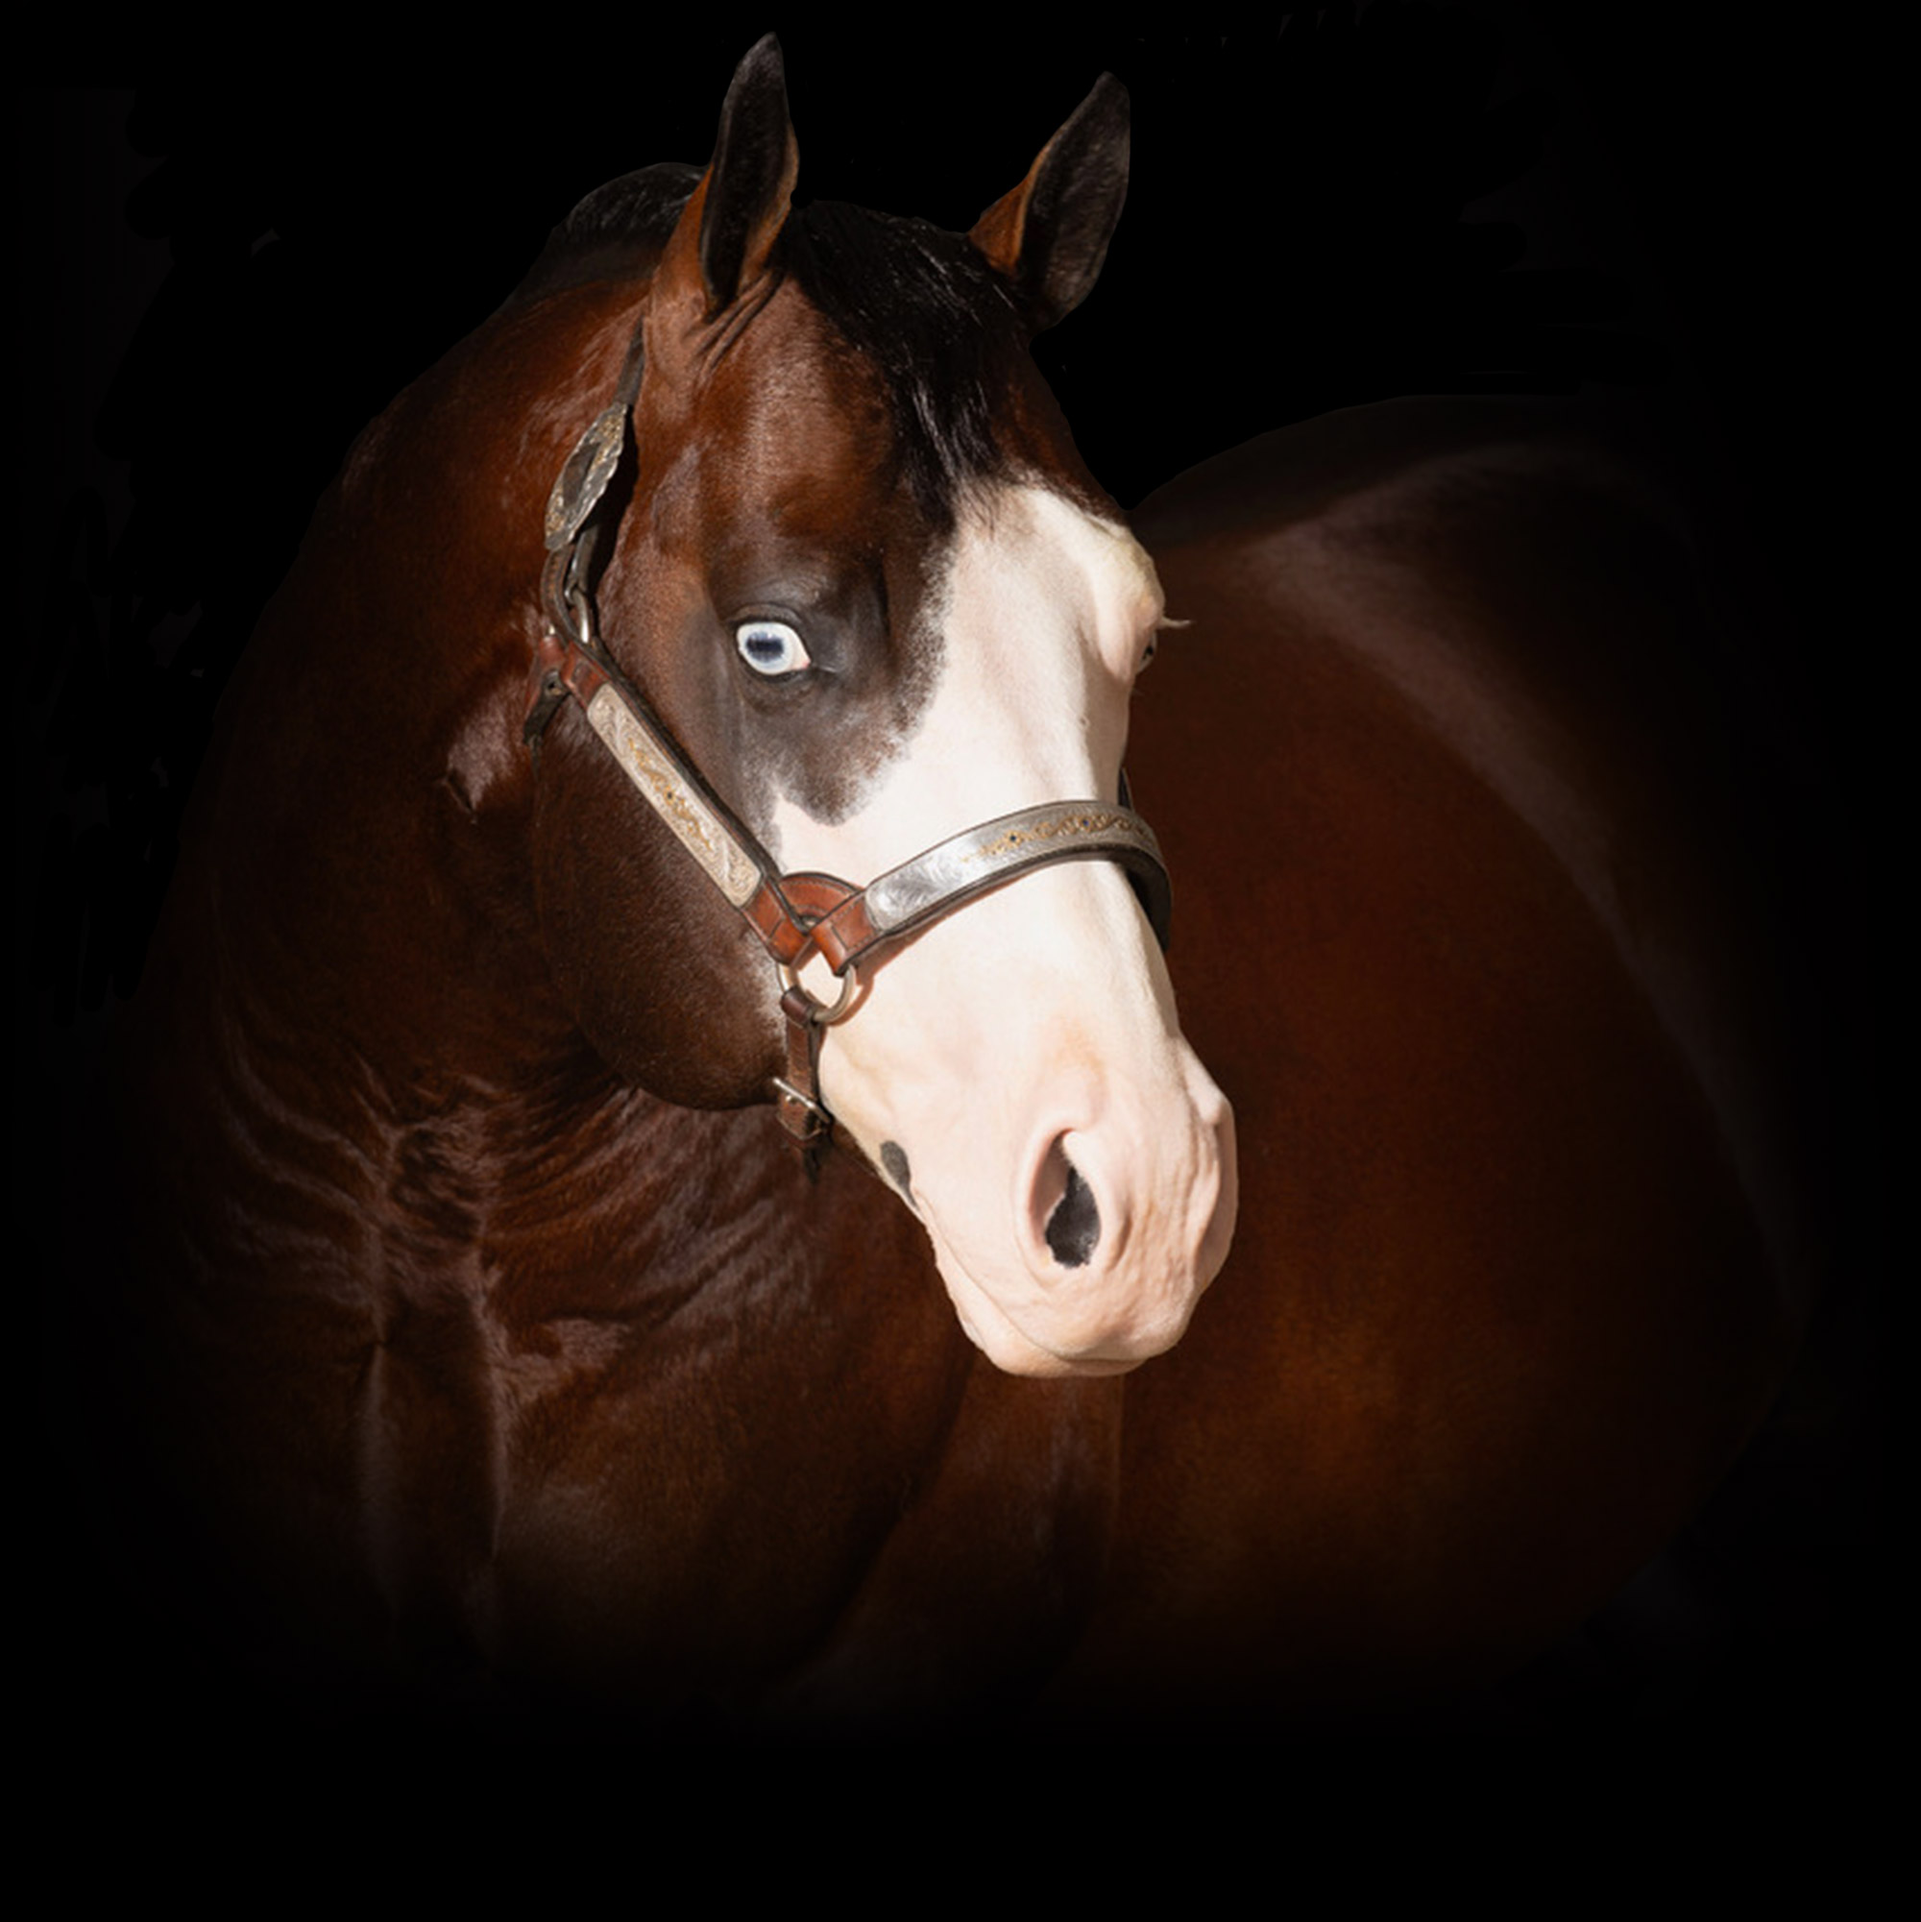
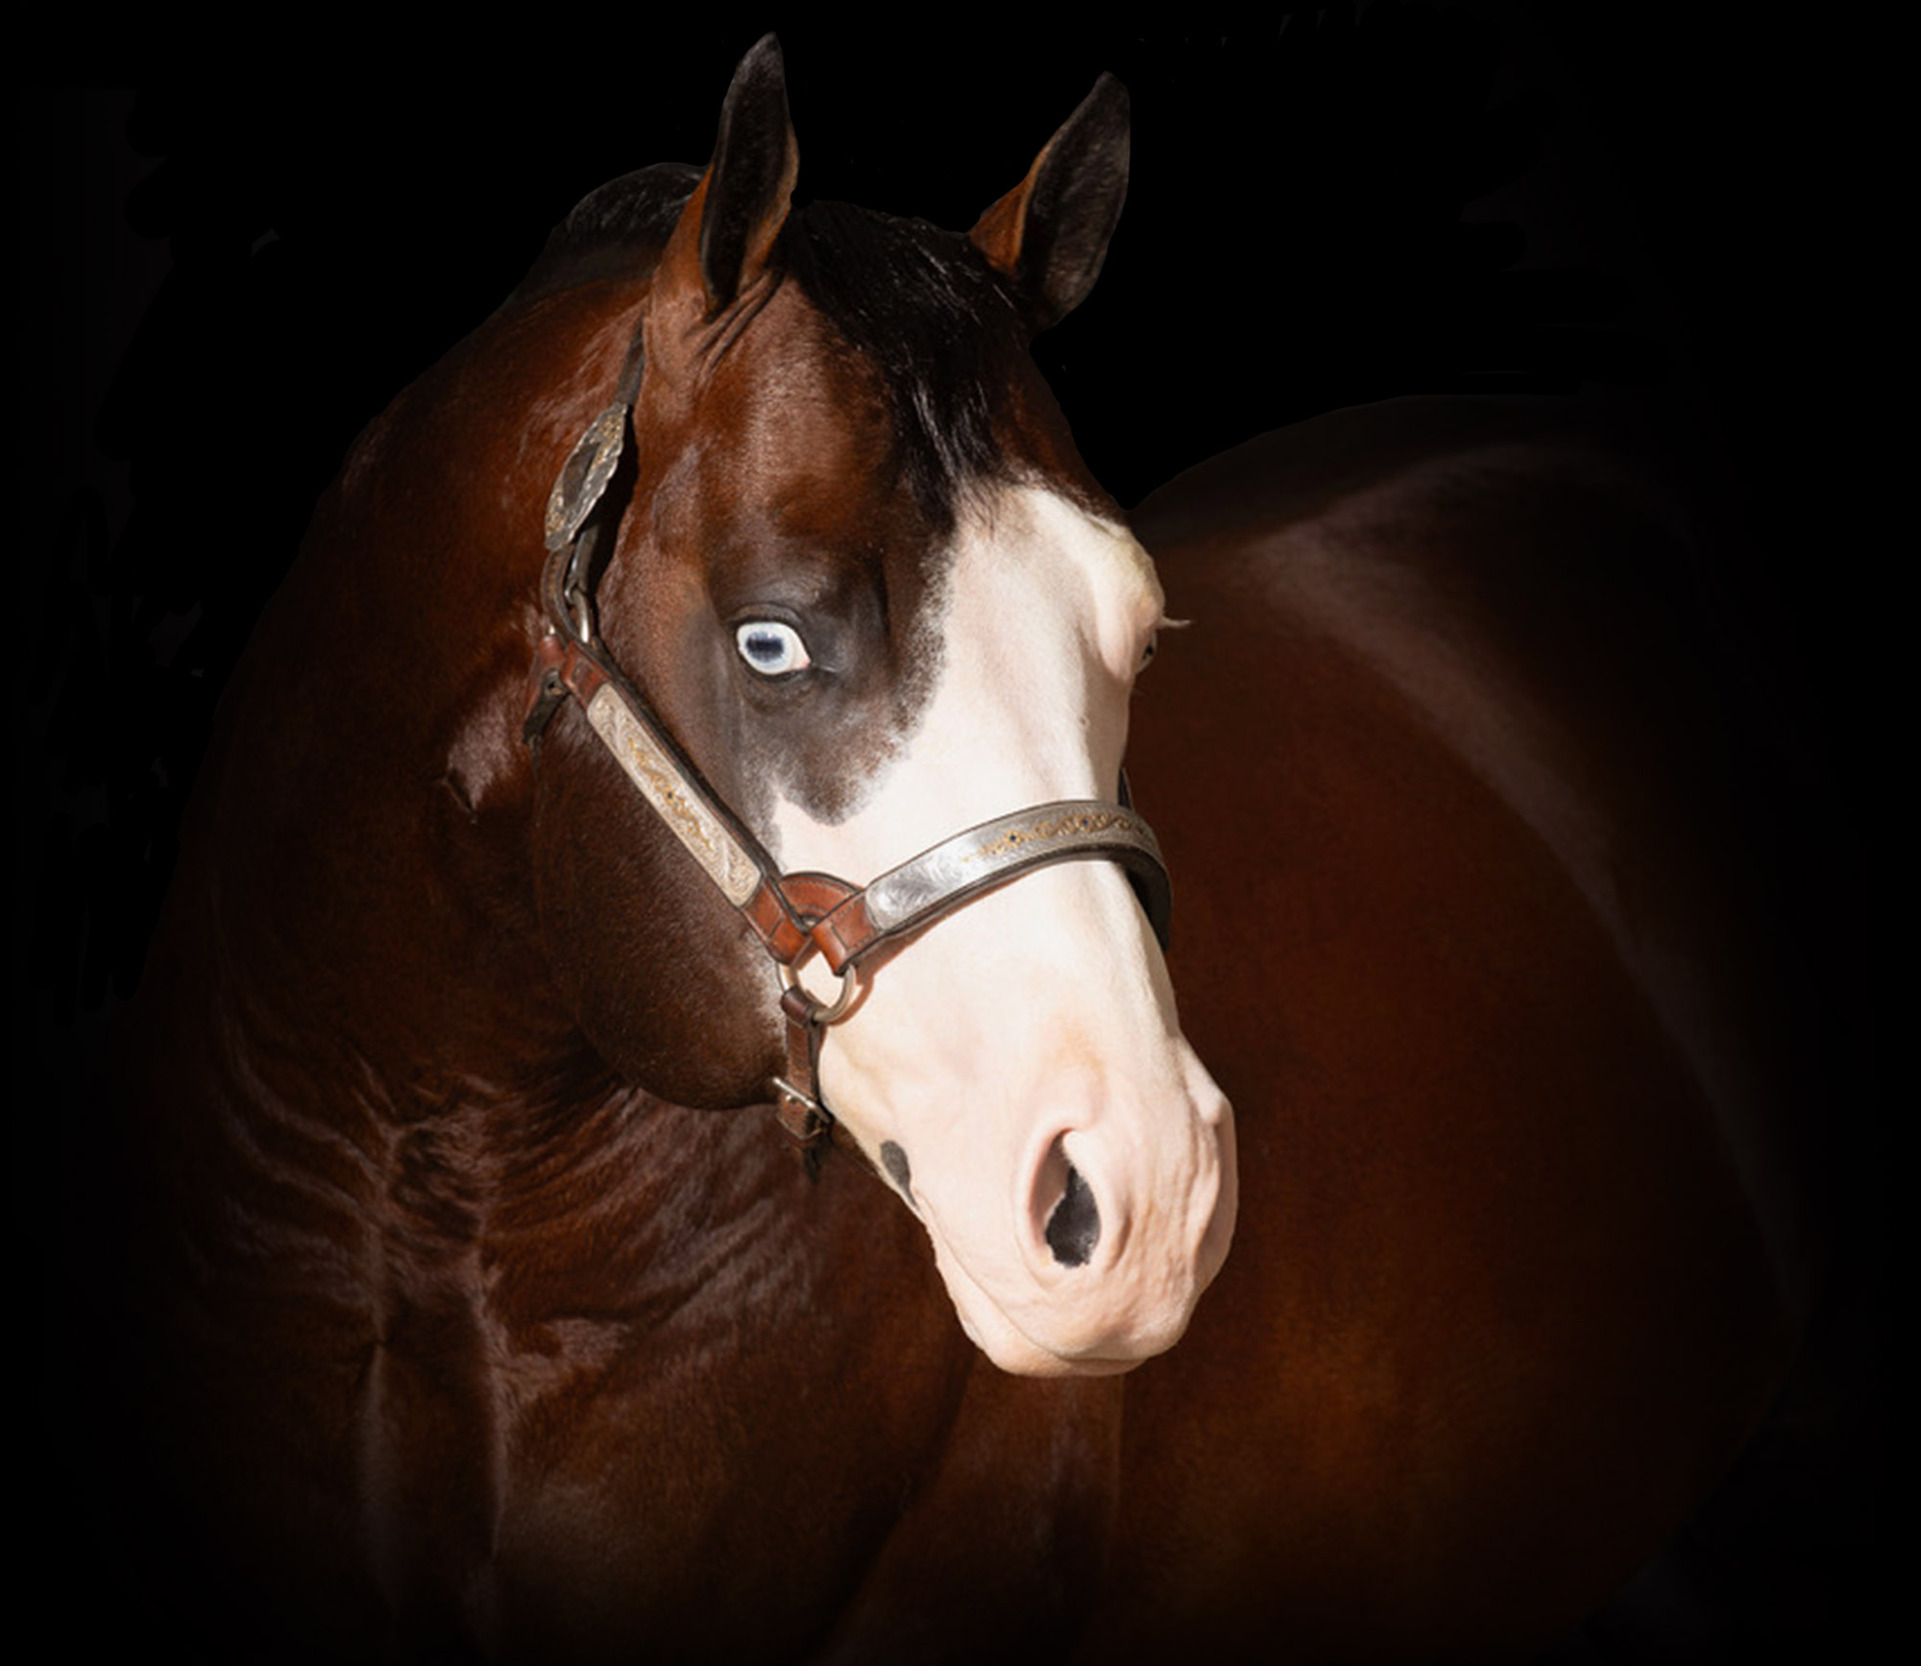
Add fattrici: Gunna Be Custom, Americasnextgunmodel, Stop Little Sister — add pedigree/offspring links to all fattrici — fix Americasnextgunmodel name in mde.json — update Magnums Custom Dream images

diff --git a/src/content/fattrici/americasnextgunmodel.md b/src/content/fattrici/americasnextgunmodel.md
@@ -1,0 +1,58 @@
+---
+name: "AMERICASNEXTGUNMODEL"
+nickname: ""
+badge: "1 Million Dollar Dam"
+badge_en: "1 Million Dollar Dam"
+yearOfBirth: 2009
+breed: "AQHA"
+color: "Chestnut"
+owner: "Arcese Quarter Horses USA"
+location: "USA"
+description_it: "Americasnextgunmodel è una fattrice saura nata nel 2009 da Colonels Smoking Gun e Cee Dun It Do It, allevata da David Silva Sr. In carriera ha accumulato quasi $290.500 di vincite personali con Casey Deary in sella, raggiungendo l'apice nel 2012 con il titolo di NRHA Level 4 Open Futurity Champion. Come fattrice si è affermata come una delle più prolifiche della sua generazione: con 12 discendenti in competizione ha superato il milione di dollari di vincite totali, diventando la decima Million Dollar Dam nella storia dell'NRHA. La sua progenie include campioni del calibro di Americasnexttopgun ($425.893+), Americas Supermodel ($231.254+) e Americasnextcovrgirl ($101.160+)."
+description_en: "Americasnextgunmodel is a chestnut mare born in 2009 by Colonels Smoking Gun and out of Cee Dun It Do It, bred by David Silva Sr. In competition she accumulated nearly $290,500 in personal earnings with Casey Deary in the saddle, reaching her peak in 2012 with the NRHA Level 4 Open Futurity Championship title. As a broodmare she established herself as one of the most prolific of her generation: with 12 competing offspring she surpassed one million dollars in total earnings, becoming the tenth Million Dollar Dam in NRHA history. Her progeny includes champions such as Americasnexttopgun ($425,893+), Americas Supermodel ($231,254+), and Americasnextcovrgirl ($101,160+)."
+mainImage: "/fattrici/americasnextgunmodel/main.jpg"
+cardImage: "/fattrici/americasnextgunmodel/card.jpg"
+gallery:
+  - "/fattrici/americasnextgunmodel/gallery1.jpg"
+  - "/fattrici/americasnextgunmodel/gallery2.jpg"
+  - "/fattrici/americasnextgunmodel/gallery3.jpg"
+  - "/fattrici/americasnextgunmodel/gallery4.jpg"
+
+stats:
+  earnings: "$290,486"
+  offspringEarnings: "$1,000,000+"
+
+pedigree:
+  sire: "COLONELS SMOKING GUN"
+  dam: "CEE DUN IT DO IT"
+  grandsire_sire: "COLONELFOURFRECKLE"
+  granddam_sire: "KATIE GUN"
+  grandsire_dam: "HOLLYWOOD DUN IT"
+  granddam_dam: "SENORITA MISS CEE"
+pedigreeUrl: "https://beta.allbreedpedigree.com/americasnextgunmodel/pedigree"
+offspringUrl: "https://beta.allbreedpedigree.com/americasnextgunmodel/offspring"
+
+achievements:
+  - year: "2012"
+    title: "NRHA Level 4 Open Futurity Champion"
+  - year: "2024"
+    title: "NRHA Million Dollar Dam (10ª nella storia)"
+
+offspring:
+  - name: "Americas Supermodel"
+    earnings: "$231,254+"
+    sire: "Walla Walla Whiz"
+  - name: "Americasnextcovrgirl"
+    earnings: "$101,160+"
+    sire: "Walla Walla Whiz"
+  - name: "Live N On A Prayer"
+    earnings: "$75,651+"
+    sire: "In Like Flinn"
+  - name: "Americas Gunslinger"
+    earnings: "$56,094+"
+    sire: "Walla Walla Whiz"
+
+videoUrl: "https://youtu.be/94CcO1GJ15g?si=2wTJ8w5EqWSADMMG"
+tags: ["million-dollar-dam"]
+origine: "USA"
+---

diff --git a/src/content/fattrici/stop-little-sister.md b/src/content/fattrici/stop-little-sister.md
@@ -1,0 +1,51 @@
+---
+name: "STOP LITTLE SISTER"
+nickname: ""
+badge: "1 Million Dollar Dam"
+badge_en: "1 Million Dollar Dam"
+yearOfBirth: 2011
+breed: "AQHA"
+color: "Bay"
+owner: "Toyon Ranch LLC"
+location: "Toyon Ranch (Pilot Point, TX, USA)"
+description_it: "Stop Little Sister è una fattrice baia nata nel 2011 da Magnum Chic Dream e Best Stop — essa stessa Million Dollar Dam. Allevata e gestita da Toyon Ranch LLC, porta in sé una genealogia di assoluta eccellenza che unisce la linea di Magnum Chic Dream a quella di Custom Crome attraverso la madre Best Stop. Come fattrice si è rivelata straordinariamente produttiva: i suoi figli hanno superato il milione di dollari di vincite totali, con punte come Gunna Stop ($672.762+, 2021 Run for a Million Champion) e Stopping in Jersey ($149.318+). Una fattrice che ha saputo trasmettere la potenza vincente di due linee d'elite, scrivendo il proprio capitolo nella storia del Reining mondiale."
+description_en: "Stop Little Sister is a bay mare born in 2011 by Magnum Chic Dream and out of Best Stop — herself a Million Dollar Dam. Bred and managed by Toyon Ranch LLC, she carries a pedigree of absolute excellence combining the Magnum Chic Dream line with that of Custom Crome through her dam Best Stop. As a broodmare she proved extraordinarily productive: her offspring have surpassed one million dollars in total earnings, with highlights including Gunna Stop ($672,762+, 2021 Run for a Million Champion) and Stopping in Jersey ($149,318+). A dam that successfully passed on the winning power of two elite lines, writing her own chapter in the history of world reining."
+mainImage: "/fattrici/stop-little-sister/main.jpg"
+cardImage: "/fattrici/stop-little-sister/card.jpg"
+gallery:
+  - "/fattrici/stop-little-sister/gallery1.jpg"
+  - "/fattrici/stop-little-sister/gallery2.jpg"
+
+stats:
+  earnings: "$0"
+  offspringEarnings: "$1,112,869+"
+
+pedigree:
+  sire: "MAGNUM CHIC DREAM"
+  dam: "BEST STOP"
+  grandsire_sire: "SMART CHIC OLENA"
+  granddam_sire: "SAILIN BARBEE"
+  grandsire_dam: "CUSTOM CROME"
+  granddam_dam: "REST STOP"
+pedigreeUrl: "https://beta.allbreedpedigree.com/stop+little+sister/pedigree"
+offspringUrl: "https://beta.allbreedpedigree.com/stop+little+sister/offspring"
+
+achievements:
+  - year: "2025"
+    title: "NRHA Million Dollar Dam"
+
+offspring:
+  - name: "Stopping in Jersey"
+    earnings: "$149,318+"
+    sire: "Yellow Jersey"
+  - name: "Get Groovy"
+    earnings: "$106,807+"
+    sire: "Spooks Gotta Whiz"
+  - name: "Gunna Run N Slide"
+    earnings: "$97,834+"
+    sire: "Gunnatrashya"
+
+videoUrl: ""
+tags: ["million-dollar-dam"]
+origine: "USA"
+---

diff --git a/src/content/fattrici/gunna-be-custom.md b/src/content/fattrici/gunna-be-custom.md
@@ -1,0 +1,49 @@
+---
+name: "GUNNA BE CUSTOM"
+nickname: ""
+badge: "1 Million Dollar Dam"
+badge_en: "1 Million Dollar Dam"
+yearOfBirth: 2013
+breed: "AQHA"
+color: "Palomino"
+owner: "Devin K. Warren"
+location: "USA"
+description_it: "Gunna Be Custom è una fattrice palomina nata nel 2013 da Colonels Smoking Gun e Custom Made Dunit. Incrociata con il fuoriclasse Magnum Chic Dream, ha generato una discendenza di eccezione che l'ha consacrata come una delle fattrici più produttive del reining moderno: i suoi figli hanno superato il milione di dollari di vincite totali, con punte assolute come Customize My Dream (NRHA Futurity L4 Open Reserve Champion 2022, $402.500+) e Custom Dreams ($330.400+). Una genealogia che unisce la potenza di Gunner all'eredità di Custom Made Dunit, con risultati straordinari nelle arene di tutto il mondo."
+description_en: "Gunna Be Custom is a palomino mare born in 2013 by Colonels Smoking Gun and out of Custom Made Dunit. Crossed with the outstanding Magnum Chic Dream, she produced exceptional offspring that have established her as one of the most productive dams in modern reining: her progeny have surpassed one million dollars in total earnings, with top performers such as Customize My Dream (2022 NRHA Futurity L4 Open Reserve Champion, $402,500+) and Custom Dreams ($330,400+). A pedigree that combines Gunner's power with the legacy of Custom Made Dunit, delivering extraordinary results in arenas worldwide."
+mainImage: "/fattrici/gunna-be-custom/main.jpg"
+cardImage: "/fattrici/gunna-be-custom/card.jpg"
+gallery:
+  - "/fattrici/gunna-be-custom/gallery1.jpg"
+  - "/fattrici/gunna-be-custom/gallery2.jpg"
+  - "/fattrici/gunna-be-custom/gallery3.jpg"
+
+stats:
+  earnings: "$0"
+  offspringEarnings: "$1,000,000+"
+
+pedigree:
+  sire: "COLONELS SMOKING GUN"
+  dam: "CUSTOM MADE DUNIT"
+  grandsire_sire: "COLONELFOURFRECKLE"
+  granddam_sire: "KATIE GUN"
+  grandsire_dam: "HOLLYWOOD DUN IT"
+  granddam_dam: "CUSTOM RED BERRY"
+pedigreeUrl: "https://beta.allbreedpedigree.com/gunna+be+custom/pedigree"
+offspringUrl: "https://beta.allbreedpedigree.com/gunna+be+custom/offspring"
+
+achievements:
+  - year: "2013–"
+    title: "NRHA Million Dollar Dam"
+
+offspring:
+  - name: "Custom Dreams"
+    earnings: "$330,400+"
+    sire: "Magnum Chic Dream"
+  - name: "Do You Have the Dream"
+    earnings: "$37,979+"
+    sire: "Magnum Chic Dream"
+
+videoUrl: "https://www.facebook.com/watch/?v=779639407865824"
+tags: ["million-dollar-dam"]
+origine: "USA"
+---

diff --git a/src/content/fattrici/shesouttayourleague.md b/src/content/fattrici/shesouttayourleague.md
@@ -25,6 +25,8 @@ pedigree:
   granddam_sire: "SHINEY WALLA WANDA"
   grandsire_dam: "WIMPYS LITTLE STEP"
   granddam_dam: "COLLENA CHIC OLENA"
+pedigreeUrl: "https://beta.allbreedpedigree.com/shesouttayourleague/pedigree"
+offspringUrl: "https://beta.allbreedpedigree.com/shesouttayourleague/offspring"
 
 achievements:
   - year: "2015"

diff --git a/src/content/fattrici/wimpys-little-chic.md b/src/content/fattrici/wimpys-little-chic.md
@@ -28,6 +28,8 @@ pedigree:
   granddam_sire: "Leolita Step"
   grandsire_dam: "Smart Chic Olena"
   granddam_dam: "Collena Freckles"
+pedigreeUrl: "https://beta.allbreedpedigree.com/wimpys+little+chic/pedigree"
+offspringUrl: "https://beta.allbreedpedigree.com/wimpys+little+chic/offspring"
 
 achievements:
   - year: "2007"

diff --git a/src/content/fattrici/dun-it-for-chex.md b/src/content/fattrici/dun-it-for-chex.md
@@ -32,6 +32,8 @@ pedigree:
   granddam_sire: "BLOSSOM BERRY"
   grandsire_dam: "DOCS SILVER N BLUE"
   granddam_dam: "NUNES ENDORA CHEX"
+pedigreeUrl: "https://beta.allbreedpedigree.com/dun+it+for+chex/pedigree"
+offspringUrl: "https://beta.allbreedpedigree.com/dun+it+for+chex/offspring"
 
 achievements:
   - year: "2019"

diff --git a/src/content/fattrici/wind-her-up-chic.md b/src/content/fattrici/wind-her-up-chic.md
@@ -25,6 +25,8 @@ pedigree:
   granddam_sire: "GAY SUGAR CHIC"
   grandsire_dam: "DOCS SIDEWINDER"
   granddam_dam: "SHADOW JAMES"
+pedigreeUrl: "https://beta.allbreedpedigree.com/wind+her+up+chic/pedigree"
+offspringUrl: "https://beta.allbreedpedigree.com/wind+her+up+chic/offspring"
 
 achievements:
   - year: "2006"

diff --git a/src/content/fattrici/chexanicki.md b/src/content/fattrici/chexanicki.md
@@ -25,6 +25,8 @@ pedigree:
   granddam_sire: "BUENO CHEX KAWEAH"
   grandsire_dam: "HOLLYWOOD DUN IT"
   granddam_dam: "GREAT FOOTWORK"
+pedigreeUrl: "https://beta.allbreedpedigree.com/chexanicki/pedigree"
+offspringUrl: "https://beta.allbreedpedigree.com/chexanicki/offspring"
 
 achievements:
   - year: "2004"

diff --git a/src/content/fattrici/ebony-shines.md b/src/content/fattrici/ebony-shines.md
@@ -25,6 +25,8 @@ pedigree:
   granddam_sire: "DIAMONDS SPARKLE"
   grandsire_dam: "TOPSAIL WHIZ"
   granddam_dam: "EBONY CHEX"
+pedigreeUrl: "https://beta.allbreedpedigree.com/ebony+shines/pedigree"
+offspringUrl: "https://beta.allbreedpedigree.com/ebony+shines/offspring"
 
 achievements:
   - year: "2004"

diff --git a/src/content/fattrici/snip-o-gun.md b/src/content/fattrici/snip-o-gun.md
@@ -30,6 +30,8 @@ pedigree:
   granddam_sire: "DOC O'LENA"
   grandsire_dam: "MISS SEVENTY ONE"
   granddam_dam: "KIM'S PENDA"
+pedigreeUrl: "https://beta.allbreedpedigree.com/snip+o+gun/pedigree"
+offspringUrl: "https://beta.allbreedpedigree.com/snip+o+gun/offspring"
 
 achievements:
   - year: "2019"
